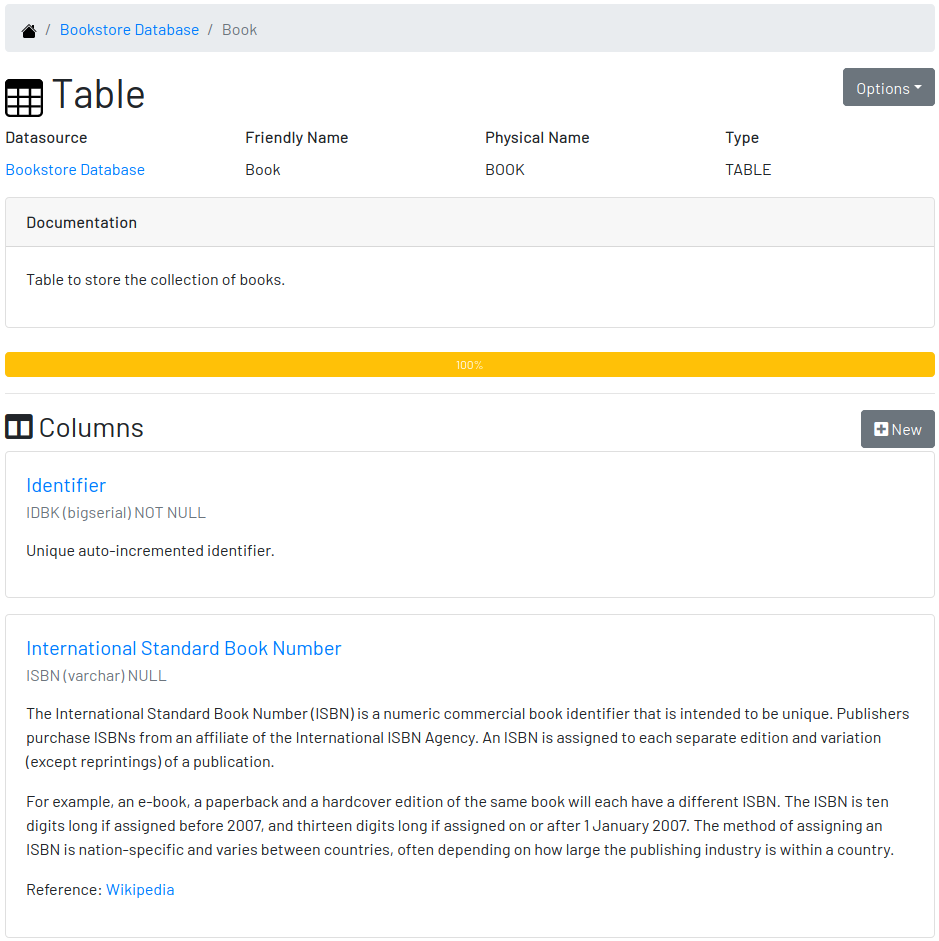
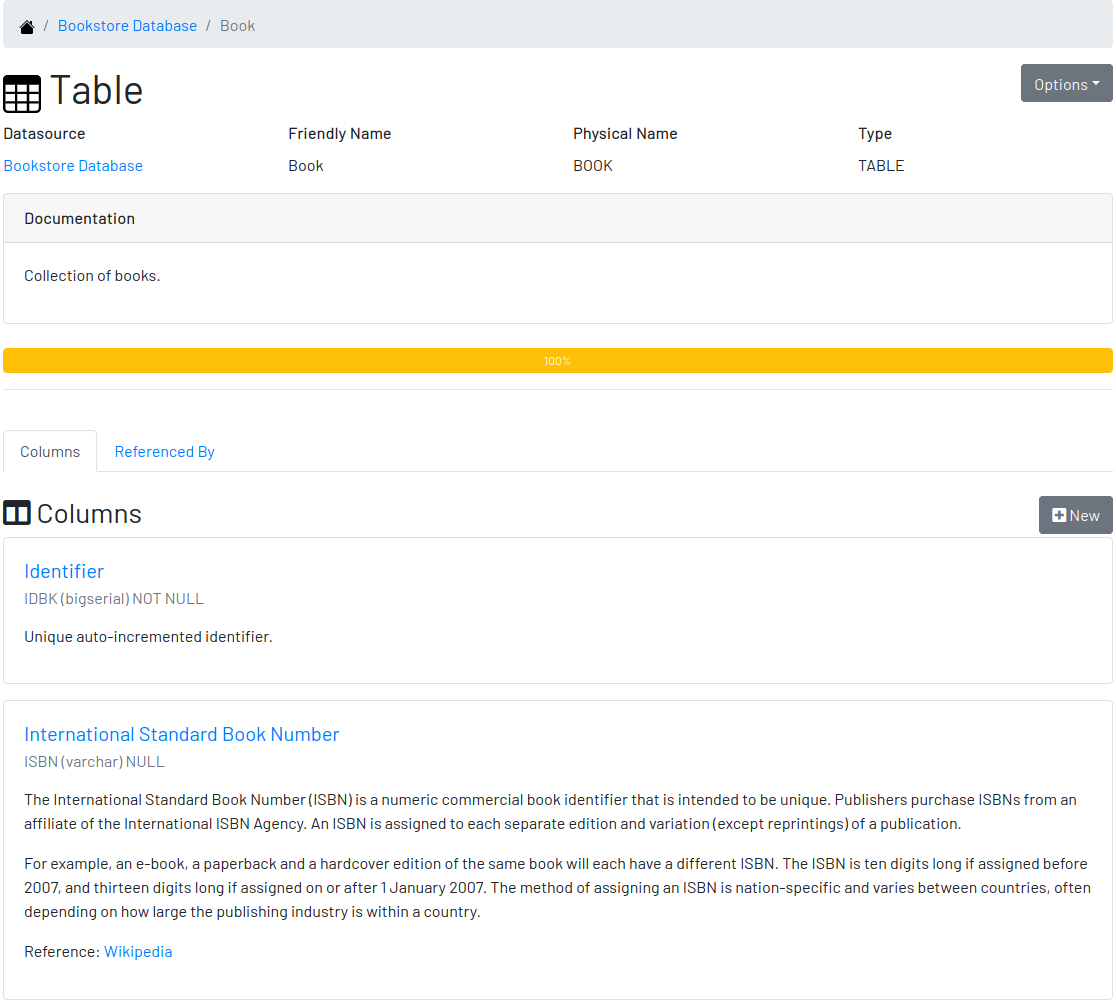
Updated the documentation for the release 1.5.0

diff --git a/docs/index.html b/docs/index.html
@@ -443,7 +443,7 @@ body.book #toc,body.book #preamble,body.book h1.sect0,body.book .sect1>h2{page-b
 <div class="details">
 <span id="author" class="author">Hildeberto Mendonca</span><br>
 <span id="email" class="email"><a href="mailto:me@hildeberto.com">me@hildeberto.com</a></span><br>
-<span id="revnumber">version 1.4.0</span>
+<span id="revnumber">version 1.5.0</span>
 </div>
 <div id="toc" class="toc2">
 <div id="toctitle">Table of Contents</div>
@@ -1000,7 +1000,7 @@ $ sudo systemctl enable digger.service</pre>
 <div class="sect3">
 <h4 id="table-form">3.3.1. Documenting a Table</h4>
 <div class="paragraph">
-<p>To document a table, go to the datadource that the table belongs to, then to the "Tables" section, and click on the <strong>New</strong> button on the right. Filling the form by selecting the physical name of the table in the dropdown, confirming the type that is automatically detected, a friendly name that is more readable than the physical mame, and write down everything you know about that table.</p>
+<p>To document a table, go to the datadource that the table belongs to, then to the "Tables" section, and click on the <strong>New</strong> button on the right. Fill-in the form by selecting the <strong>Physical Name</strong> of the table in the dropdown, confirming the type that is automatically detected, a friendly name that is more readable than the physical mame, and write down everything you know about that table.</p>
 </div>
 <div class="paragraph">
 <p>Click on the <strong>Save</strong> button to complete or <strong>Cancel</strong> to go back to the datasource page.</p>
@@ -1020,12 +1020,15 @@ $ sudo systemctl enable digger.service</pre>
 <div class="sect3">
 <h4 id="table">3.3.2. A Table</h4>
 <div class="paragraph">
-<p>The table&#8217;s page shows all information related to the table, including its columns. To edit a table, click on the <strong>Options</strong> button on the top right then select the option <strong>Edit</strong>. The form appears filled with the table&#8217;s attributes and documentation. Make the intended changes and save, or cancel to return to the table&#8217;s page.</p>
+<p>The table&#8217;s page shows all information related to the table, including its columns and dependencies. To edit a table, click on the <strong>Options</strong> button on the top right then select the option <strong>Edit</strong>. The form appears filled with the table&#8217;s attributes and documentation. Make the intended changes and save, or cancel to return to the table&#8217;s page.</p>
 </div>
 <div class="imageblock">
 <div class="content">
 <img src="images/table.png" alt="table">
 </div>
+</div>
+<div class="paragraph">
+<p>The tab <strong>Referenced By</strong> shows a list of tables that have foreign keys pointing to one of more columns of the table. It is useful for understanding the impact of changing the table or its records.</p>
 </div>
 </div>
 </div>
@@ -1049,10 +1052,22 @@ $ sudo systemctl enable digger.service</pre>
 <h3 id="columns">3.5. Columns</h3>
 <div class="sect3">
 <h4 id="column-form">3.5.1. Documenting a Column</h4>
+<div class="paragraph">
+<p>To document a column of a table, go to the table that the column belongs to, go to the <strong>Columns</strong> tab and click on the <strong>New</strong> button on the right. Fill in the form by selecting the <strong>Physical Name</strong>, writing a human friendly name that is equivalent to the physical name, and verify the fields that are automatically filled.</p>
+</div>
+<div class="paragraph">
+<p>If the column is a foreign key, select the reference table and the column that the key points to. The documentation of the selection is presented right below to assist on the documentation of the current field.</p>
+</div>
+<div class="paragraph">
+<p>Finally, describe in details what the field is useful for, why it is important for the business, exceptional cases, historical decisions, etc.</p>
+</div>
 <div class="imageblock">
 <div class="content">
 <img src="images/column-form.png" alt="column form">
 </div>
+</div>
+<div class="paragraph">
+<p>Click on <strong>Save</strong> to keep the information or <strong>Cancel</strong> to go back to the table&#8217;s page.</p>
 </div>
 </div>
 <div class="sect3">
@@ -1387,7 +1402,10 @@ $ git commit --amend</pre>
 <div class="olist arabic">
 <ol class="arabic">
 <li>
-<p>Update and review the documentation to make sure it covers all the recent changes in the tool.</p>
+<p>Review the tickets that are going to be released.</p>
+</li>
+<li>
+<p>Review the documentation to make sure it covers all the recent changes.</p>
 </li>
 <li>
 <p>Increment the version number in the documentation to the version that is about to be released.</p>
@@ -1416,7 +1434,7 @@ $ git commit -m "Updated the documentation for the release 1.3.0"</pre>
 <p>Push all local changes to the release branch:</p>
 <div class="literalblock">
 <div class="content">
-<pre>$ git push origin 1.4.0</pre>
+<pre>$ git push origin 1.5.0</pre>
 </div>
 </div>
 </li>
@@ -1502,8 +1520,8 @@ $ git commit -m "Incremented release number to 1.5.0"</pre>
 </div>
 <div id="footer">
 <div id="footer-text">
-Version 1.4.0<br>
-Last updated 2020-06-12 07:49:25 -0400
+Version 1.5.0<br>
+Last updated 2020-06-14 23:08:57 -0400
 </div>
 </div>
 </body>
